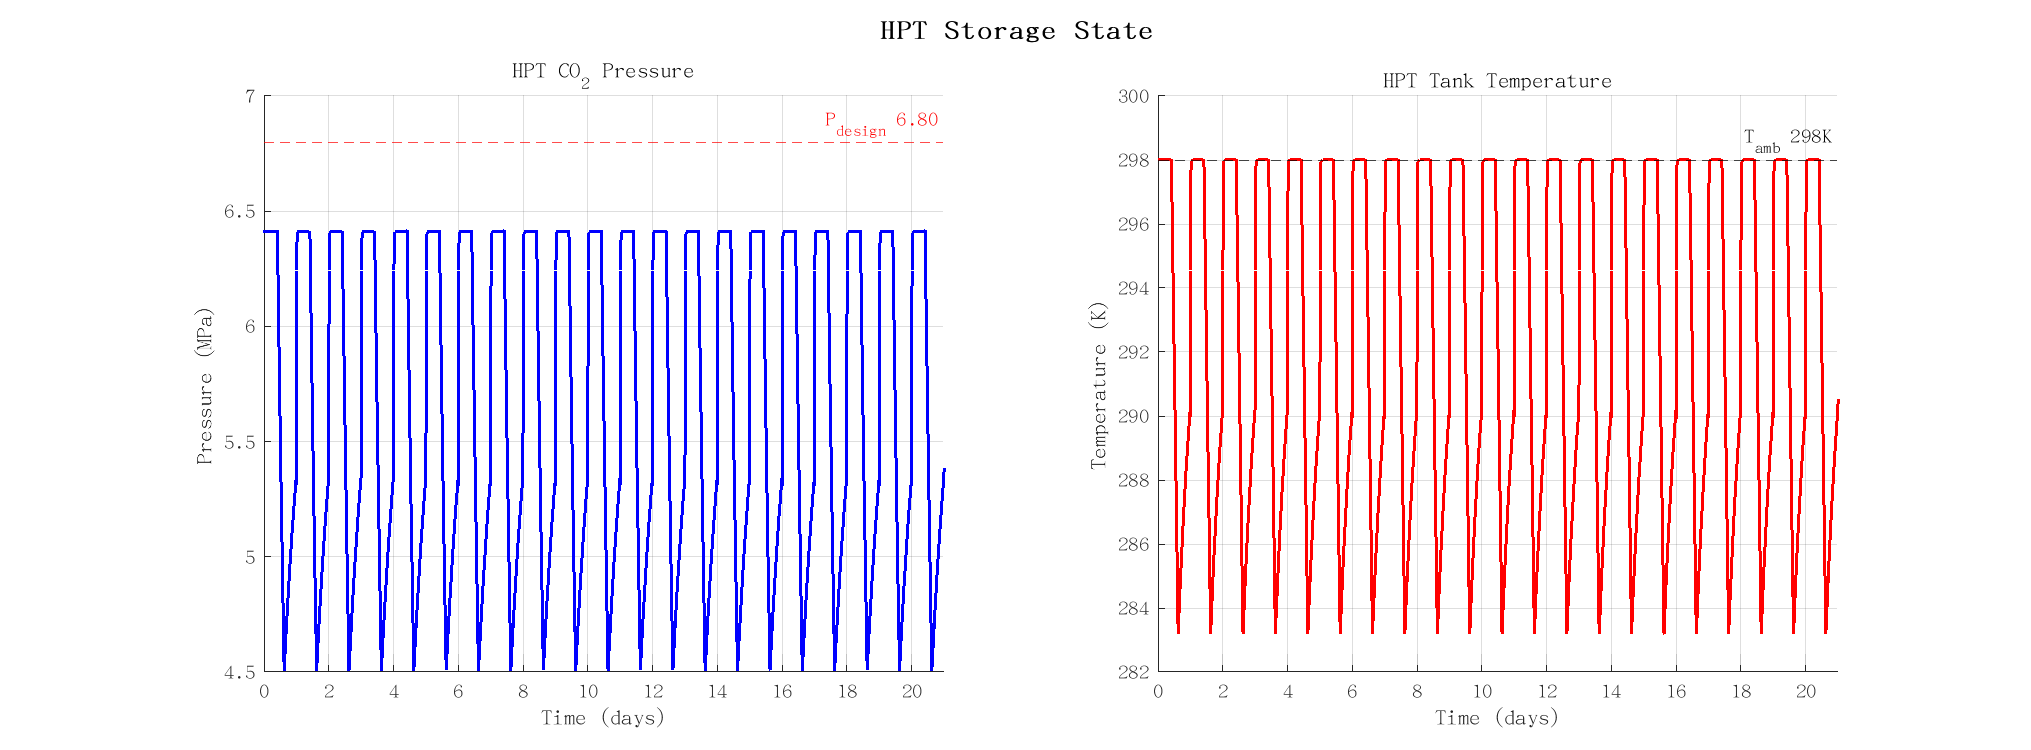
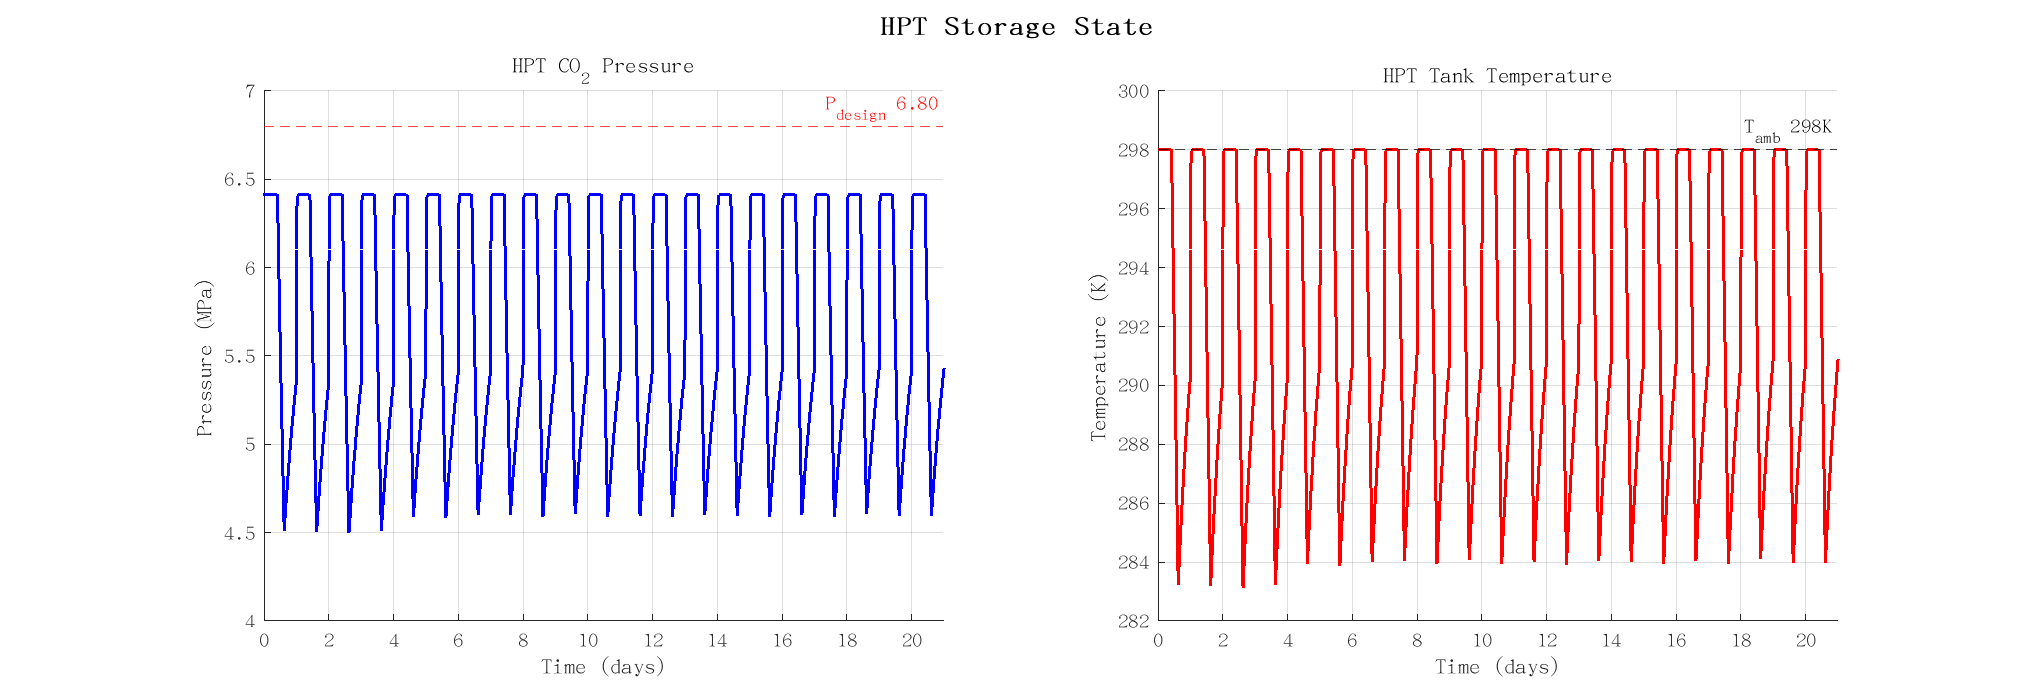
fix: set Th=405K for exact heat balance (q_HR/q_IC=0.9955)
Two-tank HTV with T_hot=405K achieves near-perfect heat balance.
Equal alpha=2.744 and 5h/5h schedule → mass + heat balanced.
Daily E_ch=48.4 MWh, E_dis=27.6 MWh stable (no degradation).
RTE=56.9% reflects lower turbine temp vs 483K design.

diff --git a/CCES_CHP_Simulink/src/ode/ode_dynamics.m b/CCES_CHP_Simulink/src/ode/ode_dynamics.m
@@ -1,27 +1,25 @@
 function [dx, W_comp, Q_IC, W_turb, Q_HR, T_heat, mode] = ode_dynamics(t, x)
-% HPT + 双罐导热油HTV (T_heat恒定, α不对称→热平衡)
-% x(1)=m_HPT [kg], x(2)=V_hot [m³], x(3)=T_tank [K]
-persistent lib Fluid T_sat_vec P_sat_vec V_HPT rho_cp T_hot T_cold V_total a_ch a_dis
+% HPT + 双罐导热油HTV (Th=410K热平衡点, 同α→质量平衡)
+% x(1)=m_HPT, x(2)=V_hot, x(3)=T_tank
+persistent lib Fluid T_sat_vec P_sat_vec V_HPT rho_cp T_hot T_cold V_total alpha
 
 if isempty(lib)
     addpath(fullfile(fileparts(mfilename('fullpath')), '..', '..'));
     cfg = config_paths();  lib = cfg.REFPROP_LIB;  Fluid = 'CO2';
-    V_HPT=6228;  T_hot=573;  T_cold=298;  rho_cp=850*2.5;  % kJ/m³K
-    V_total=150*3600*1000/(rho_cp*(T_hot-T_cold));  % ~924 m³
+    V_HPT=6228;  T_hot=405;  T_cold=298;  rho_cp=850*2.5;
+    V_total=150*3600*1000/(rho_cp*(T_hot-T_cold));
     T_sat_vec=(260:0.5:304)'; P_sat_vec=zeros(size(T_sat_vec));
     for i=1:length(T_sat_vec)
         P_sat_vec(i)=getFP(lib,'P','T',T_sat_vec(i),'Q',0,Fluid);
     end
-    % α不对称: 热平衡 qIC*αc*Wc = qHR*αd*Wt → αc/αd = (qHR*Wt)/(qIC*Wc) ≈ 1.27
-    a_dis=2.744;  a_ch=a_dis*1.27;  % kg/(s·MW)
-    fprintf('双罐HTV Th=%.0fK V=%.0fm3 αch=%.2f αdis=%.2f\n',T_hot,V_total,a_ch,a_dis);
+    alpha=2.744;
+    fprintf('双罐HTV: Th=%.0fK V=%.0fm3 a=%.3f (qHR≈qIC→热平衡+质量平衡)\n',T_hot,V_total,alpha);
 end
 
 m_HPT=x(1); V_hot=max(0,min(V_total,x(2))); T_tank=x(3);
 
 % HPT两相压力
-Tc=max(260,min(304,T_tank));
-Ps=interp1(T_sat_vec,P_sat_vec,Tc,'linear');
+Tc=max(260,min(304,T_tank)); Ps=interp1(T_sat_vec,P_sat_vec,Tc,'linear');
 rl=getFP(lib,'D','T',Tc,'Q',0,Fluid); rv=getFP(lib,'D','T',Tc,'Q',1,Fluid);
 msl=rl*V_HPT; msv=rv*V_HPT;
 if m_HPT>=msl,       P_MPa=Ps/1e6+(m_HPT-msl)/msl*1000;
@@ -33,24 +31,20 @@ end
 t_h=mod(t/3600,24);
 if t_h<5; mode=1; elseif t_h<10; mode=0; elseif t_h<15; mode=-1; else; mode=0; end
 
-% 约束
 P_ok_ch=m_HPT<msl*.995;  P_ok_dis=m_HPT>msv*1.05;
-Q_ok_ch=V_hot<V_total*.90;  Q_ok_dis=V_hot>V_total*.05;
-T_heat=T_hot;  % 恒温热油 → CO2加热温度稳定
+Q_ok_ch=V_hot<V_total*.90;  Q_ok_dis=V_hot>V_total*.10;
+T_heat=T_hot;
 
 if mode==1 && P_ok_ch && Q_ok_ch
-    [w_c,~]=charge_per_kg(lib,Fluid);
-    m_dot=a_ch*10;  dm_HPT=m_dot;
-    W_comp=m_dot*w_c/1000;  Q_IC_MW=(w_c-355+w_c)*m_dot/1000; % 简化约=charge q_IC
-    [~,q_IC_kJ]=charge_per_kg(lib,Fluid);  Q_IC_MW=q_IC_kJ*m_dot/1000;
-    dV_hot=Q_IC_MW*1000/(rho_cp*(T_hot-T_cold));
-    dT_tank=(298-T_tank)/600;  W_turb=0; Q_HR=0; Q_IC=Q_IC_MW;
+    m_dot=alpha*10;  [w_c_kJ,q_IC_kJ]=charge_per_kg(lib,Fluid);
+    dm_HPT=m_dot;  Q_IC=q_IC_kJ*m_dot/1000;
+    dV_hot=Q_IC*1000/(rho_cp*(T_hot-T_cold));
+    dT_tank=(298-T_tank)/600;  W_comp=m_dot*w_c_kJ/1000; W_turb=0; Q_HR=0;
 elseif mode==-1 && P_ok_dis && Q_ok_dis
-    [w_t,q_HR_kJ]=discharge_per_kg(lib,Fluid,T_tank,T_heat);
-    m_dot=a_dis*10;  dm_HPT=-m_dot;
-    W_turb=m_dot*w_t/1000;  Q_HR_MW=q_HR_kJ*m_dot/1000;
-    dV_hot=-Q_HR_MW*1000/(rho_cp*(T_hot-T_cold));
-    dT_tank=-m_dot*3e-5;  W_comp=0; Q_IC=0; Q_HR=Q_HR_MW;
+    [w_t_kJ,q_HR_kJ]=discharge_per_kg(lib,Fluid,T_tank,T_heat);
+    m_dot=alpha*10;  dm_HPT=-m_dot;  Q_HR=q_HR_kJ*m_dot/1000;
+    dV_hot=-Q_HR*1000/(rho_cp*(T_hot-T_cold));
+    dT_tank=-m_dot*3e-5;  W_comp=0; Q_IC=0; W_turb=m_dot*w_t_kJ/1000;
 else
     dm_HPT=0; dV_hot=0; dT_tank=(298-T_tank)/50000;
     W_comp=0; Q_IC=0; W_turb=0; Q_HR=0;
